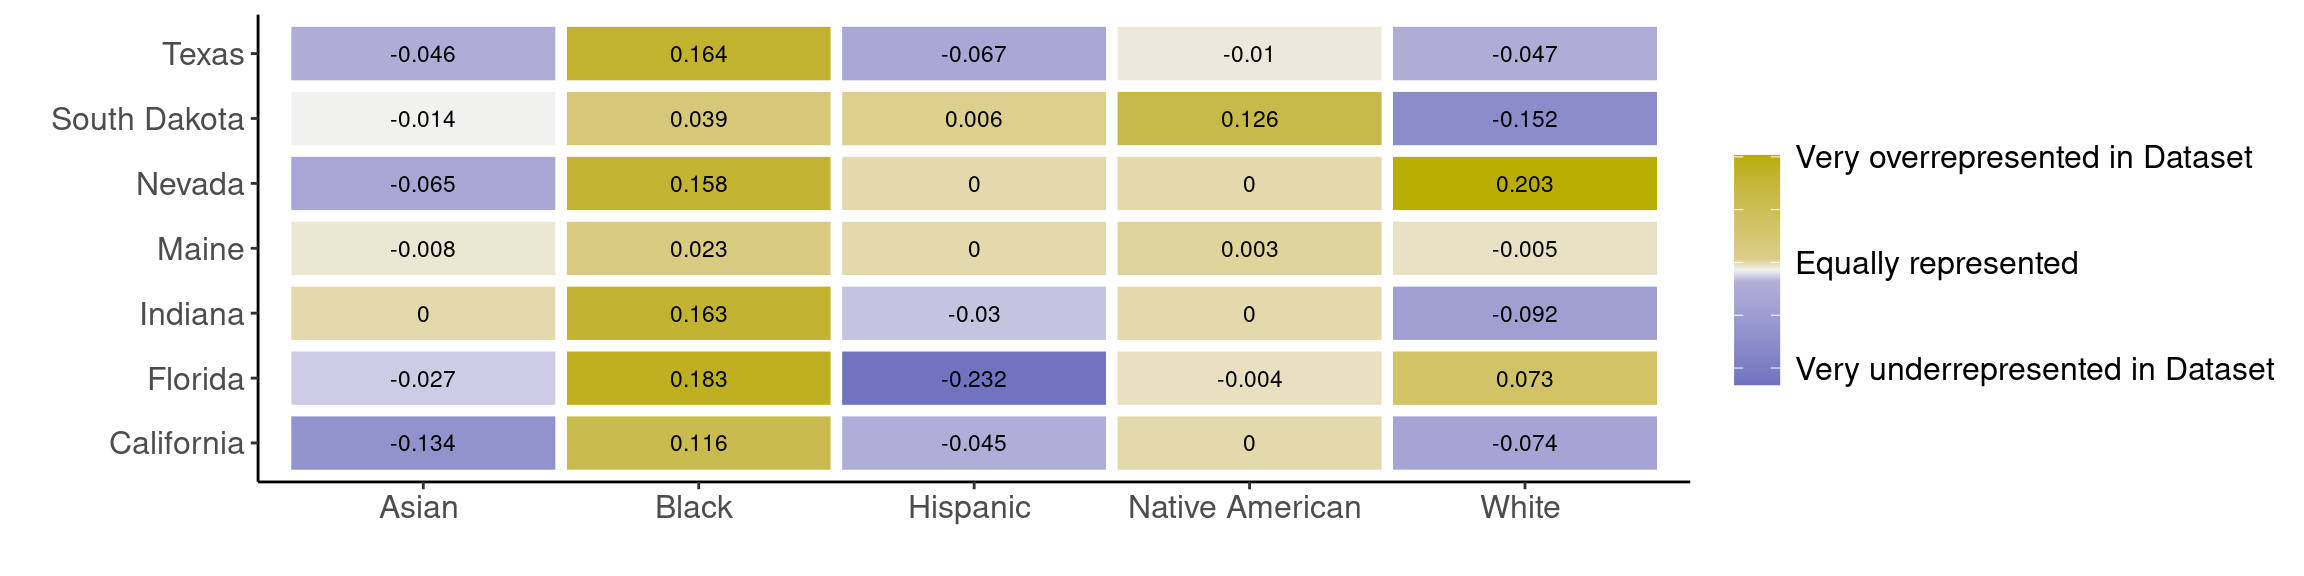
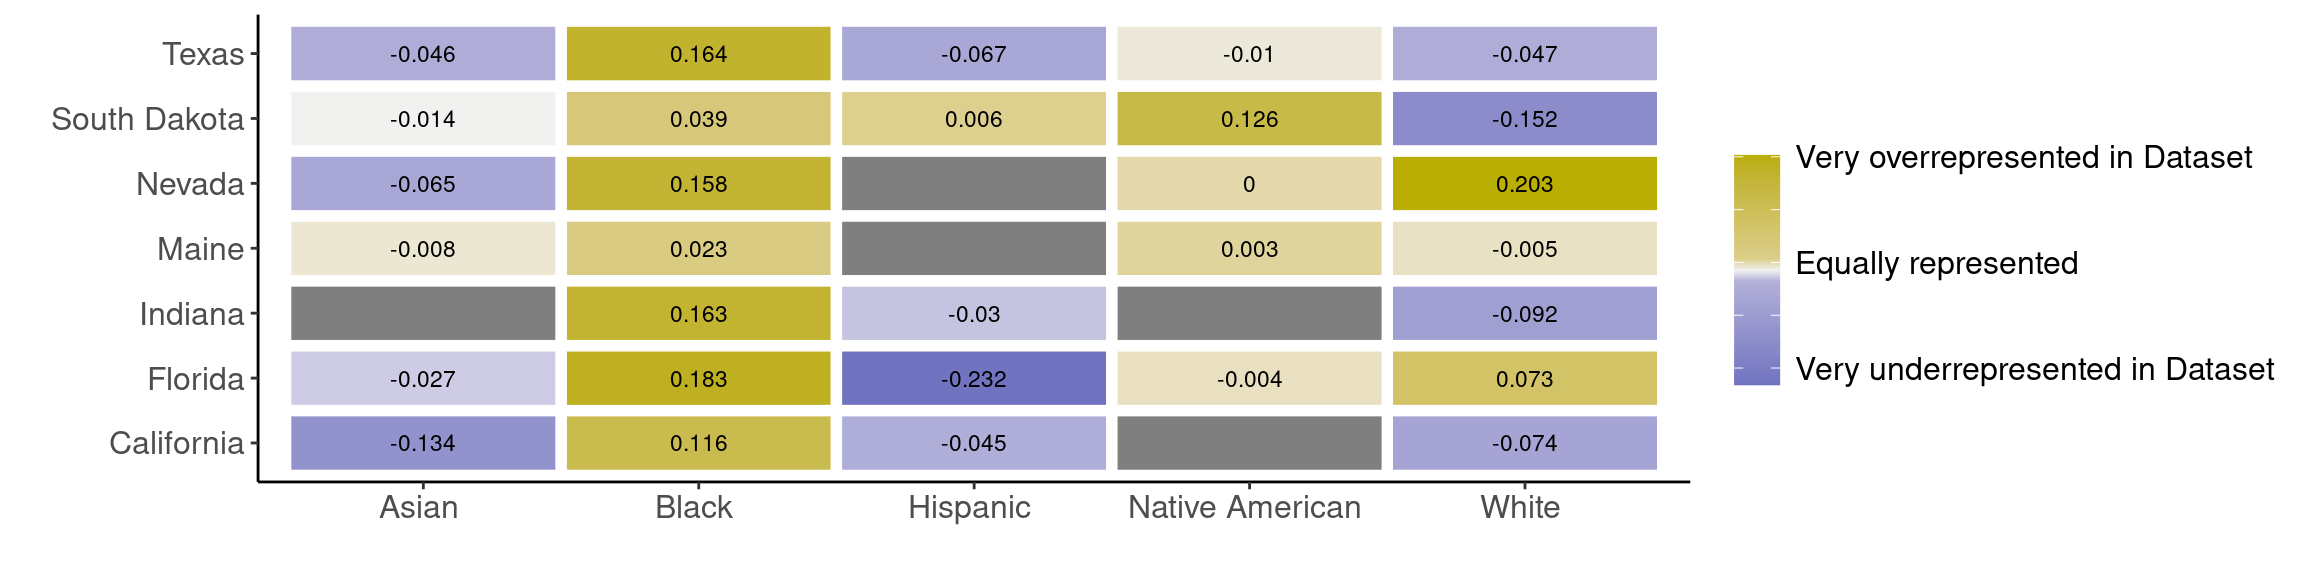
Build site.

Changed region(s): [[0.3438, 0.25, 0.625, 0.5938], [0.4688, 0.7188, 0.625, 0.8438], [0.125, 0.4688, 0.25, 0.5938]]

diff --git a/docs/tasks.html b/docs/tasks.html
@@ -507,16 +507,16 @@ data/df_flavor.csv
 <div class="panel panel-default">
 <div class="panel-heading">
 <p class="panel-title">
-<a data-toggle="collapse" data-parent="#workflowr-checks" href="#strongRepositoryversionstrongf10f92e"> <span class="glyphicon glyphicon-ok text-success" aria-hidden="true"></span> <strong>Repository version:</strong> f10f92e </a>
+<a data-toggle="collapse" data-parent="#workflowr-checks" href="#strongRepositoryversionstrong7dda0b0"> <span class="glyphicon glyphicon-ok text-success" aria-hidden="true"></span> <strong>Repository version:</strong> 7dda0b0 </a>
 </p>
 </div>
-<div id="strongRepositoryversionstrongf10f92e" class="panel-collapse collapse">
+<div id="strongRepositoryversionstrong7dda0b0" class="panel-collapse collapse">
 <div class="panel-body">
 <p>
 Great! You are using Git for version control. Tracking code development and connecting the code version to the results is critical for reproducibility.
 </p>
 <p>
-The results in this page were generated with repository version f10f92e. See the <em>Past versions</em> tab to see a history of the changes made to the R Markdown and HTML files.
+The results in this page were generated with repository version 7dda0b0. See the <em>Past versions</em> tab to see a history of the changes made to the R Markdown and HTML files.
 </p>
 <p>
 Note that you need to be careful to ensure that all relevant files for the analysis have been committed to Git prior to generating the results (you can use <code>wflow_publish</code> or <code>wflow_git_commit</code>). workflowr only checks the R Markdown file, but you know if there are other scripts or data files that it depends on. Below is the status of the Git repository when the results were generated:
@@ -564,6 +564,40 @@ Message
 </tr>
 </thead>
 <tbody>
+<tr>
+<td>
+Rmd
+</td>
+<td>
+7dda0b0
+</td>
+<td>
+Hannah Van Wyk
+</td>
+<td>
+2024-03-02
+</td>
+<td>
+Start my new project
+</td>
+</tr>
+<tr>
+<td>
+html
+</td>
+<td>
+18227fc
+</td>
+<td>
+Hannah Van Wyk
+</td>
+<td>
+2024-03-02
+</td>
+<td>
+Build site.
+</td>
+</tr>
 <tr>
 <td>
 Rmd
@@ -1148,9 +1182,7 @@ population_data &lt;- sb %&gt;% filter(Context == &quot;Population&quot;)
 merged_data &lt;- database_data %&gt;%
   inner_join(population_data, by = c(&quot;State&quot;, &quot;Demographic.Group&quot;)) %&gt;%
   dplyr::rename(Value_Database = Value.x, Value_Population = Value.y) %&gt;%
-  mutate(Difference = Value_Database - Value_Population)
-
-merged_data[is.na(merged_data)] &lt;- 0</code></pre>
+  mutate(Difference = Value_Database - Value_Population)</code></pre>
 <pre class="r"><code>ggplot(merged_data, aes(x = Demographic.Group, y = State, fill = Difference)) +
   geom_tile(color = &quot;white&quot;,size=2) + 
   geom_text(aes(label = round(Difference, 3)),size=3) +
@@ -1278,6 +1310,17 @@ Date
 <tbody>
 <tr>
 <td>
+18227fc
+</td>
+<td>
+Hannah Van Wyk
+</td>
+<td>
+2024-03-02
+</td>
+</tr>
+<tr>
+<td>
 2fd5e5d
 </td>
 <td>
@@ -1316,7 +1359,7 @@ for (flavor in unique(flavor_long$Attribute)) {
 }</code></pre>
 <pre class="r"><code>print(xtable(results),include.rownames=FALSE, type = &quot;html&quot;)</code></pre>
 <!-- html table generated in R 4.3.1 by xtable 1.8-4 package -->
-<!-- Sat Mar  2 14:14:52 2024 -->
+<!-- Sat Mar  2 14:16:08 2024 -->
 <table border="1">
 <tr>
 <th>
